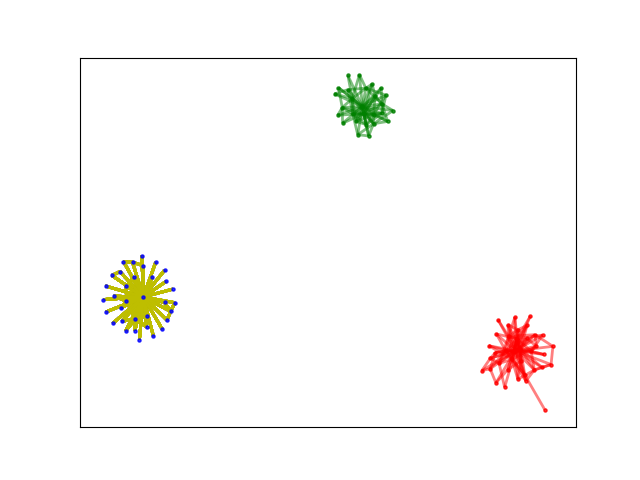
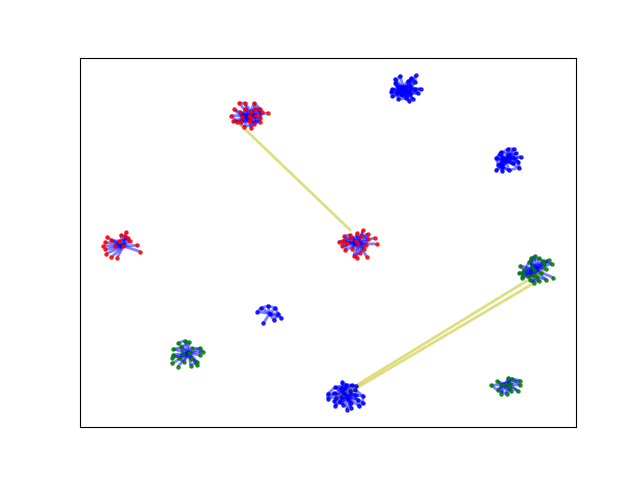
done with the two views on the left, now the last view

diff --git a/main.py b/main.py
@@ -1,6 +1,9 @@
 from mygraph import GraphSolver, MyGraph
 import kivy
 import random
+
+import datetime
+import time
 from kivy.app import App
 from kivy.uix.button import Button
 from kivy.uix.boxlayout import BoxLayout
@@ -83,7 +86,7 @@ class NestedLayoutExample(App):
         self.alpha = 0 # how many edges in between each pair
         self.beta = 0 # how many pairs chosen
         # parameters in the second column
-        self.num_additional_edges = 1
+        self.ratio_additional_edges = 1.0
 
         self.count_TN = 0.0
         self.count_FN = 0.0
@@ -94,8 +97,8 @@ class NestedLayoutExample(App):
         self.recall = 0.0
         self.accuracy = 0.0
 
-        self.one_time = 0.0
-        self.all_time = 0.0
+        self.one_time = "NONE"
+        self.all_time = "NONE"
 
         # main_layout = BoxLayout(padding=10, orientation="horizontal")
         main_layout = GridLayout(cols=3)
@@ -123,21 +126,21 @@ class NestedLayoutExample(App):
         box_C = BoxLayout(orientation='horizontal')
         box_C.add_widget(Label(text='C', halign='left', size_hint=(None,.4), markup=True))
         self.C_input = TextInput(hint_text='5', size_hint=(.5,.4))
-        self.C_input.text = '5'
+        self.C_input.text = '10'
         box_C.add_widget(self.C_input)
         first_ver_layout.add_widget(box_C)
         # alpha
         box_alpha = BoxLayout(orientation='horizontal', spacing=20)
         box_alpha.add_widget(Label(text='alpha', halign='left', size_hint=(None,.4), markup=True))
-        self.alpha_input = TextInput(hint_text='1.5', size_hint=(.5,.4))
-        self.alpha_input.text = '1.5'
+        self.alpha_input = TextInput(hint_text='0.1', size_hint=(.5,.4))
+        self.alpha_input.text = '0.1'
         box_alpha.add_widget(self.alpha_input)
         first_ver_layout.add_widget(box_alpha)
         # beta
         box_beta = BoxLayout(orientation='horizontal', spacing=20)
         box_beta.add_widget(Label(text='beta', halign='left', size_hint=(None,.4), markup=True))
-        self.beta_input = TextInput(hint_text='1.0', size_hint=(.5,.4))
-        self.beta_input.text = '1.0'
+        self.beta_input = TextInput(hint_text='2.5', size_hint=(.5,.4))
+        self.beta_input.text = '2.0'
         box_beta.add_widget(self.beta_input)
         first_ver_layout.add_widget(box_beta)
 
@@ -149,40 +152,49 @@ class NestedLayoutExample(App):
 
         # Second Column
         second_ver_layout = BoxLayout(orientation='vertical')
-        second_ver_layout.add_widget(Builder.load_string((img_after)))
+        self.after_img = Builder.load_string((img_after))
+        second_ver_layout.add_widget(self.after_img)
         # first row:
         # number of edges in between: num_edges_between
         box_A = BoxLayout(orientation='horizontal', spacing=20)
-        box_A.add_widget(Label(text='No. Add\'Edges', halign='left', size_hint=(.5,.4), markup=True))
-        self.A_input = TextInput(hint_text='60', size_hint=(.5,.4))
-        self.A_input.text = '100'
+        box_A.add_widget(Label(text='Ratio. Add\'Edges', halign='left', size_hint=(.5,.4), markup=True))
+        self.A_input = TextInput(hint_text='1.4', size_hint=(.5,.4))
+        self.A_input.text = '1.4'
         box_A.add_widget(self.A_input)
         second_ver_layout.add_widget(box_A)
 
         # display the evaluation result
         box_T = BoxLayout(orientation='horizontal', spacing=20)
-        box_T.add_widget(Label(text='TP = ' + str(self.count_TP), halign='left', size_hint=(None,.4), markup=True))
+        self.TP_label = Label(text='TP = ' + str(self.count_TP), halign='left', size_hint=(None,.4), markup=True)
+        box_T.add_widget(self.TP_label)
         # second_ver_layout.add_widget(box_TP)
-        box_T.add_widget(Label(text='TN = ' + str(self.count_TN), halign='left', size_hint=(None,.4), markup=True))
+        self.TN_label = Label(text='TN = ' + str(self.count_TN), halign='left', size_hint=(None,.4), markup=True)
+        box_T.add_widget(self.TN_label)
         second_ver_layout.add_widget(box_T)
 
 
         box_F = BoxLayout(orientation='horizontal', spacing=20)
-        box_F.add_widget(Label(text='FP = ' + str(self.count_FP), halign='left', size_hint=(None,.4), markup=True))
+        self.FP_label = Label(text='FP = ' + str(self.count_FP), halign='left', size_hint=(None,.4), markup=True)
+        box_F.add_widget(self.FP_label)
         # second_ver_layout.add_widget(box_TP)
-        box_F.add_widget(Label(text='FN = ' + str(self.count_FN), halign='left', size_hint=(None,.4), markup=True))
+        self.FN_label = Label(text='FN = ' + str(self.count_FN), halign='left', size_hint=(None,.4), markup=True)
+        box_F.add_widget(self.FN_label)
         second_ver_layout.add_widget(box_F)
 
 
         box_X = BoxLayout(orientation='horizontal', spacing=20)
-        box_X.add_widget(Label(text='precision = ' + str(self.precision), halign='left', size_hint=(None,.4), markup=True))
+        self.precision_label = Label(text='precision = ' + str(self.precision), halign='left', size_hint=(None,.4), markup=True)
+        box_X.add_widget(self.precision_label)
         # second_ver_layout.add_widget(box_TP)
-        box_X.add_widget(Label(text='recall = ' + str(self.recall), halign='left', size_hint=(None,.4), markup=True))
-        box_X.add_widget(Label(text='accuracy = ' + str(self.accuracy), halign='left', size_hint=(None,.4), markup=True))
+        self.recall_label = Label(text='recall = ' + str(self.recall), halign='left', size_hint=(None,.4), markup=True)
+        box_X.add_widget(self.recall_label)
+        self.accuracy_label = Label(text='accuracy = ' + str(self.accuracy), halign='left', size_hint=(None,.4), markup=True)
+        box_X.add_widget(self.accuracy_label)
         second_ver_layout.add_widget(box_X)
 
         box_Y = BoxLayout(orientation='horizontal', spacing=20)
-        box_Y.add_widget(Label(text='time4it = ' + str(self.one_time), halign='left', size_hint=(None,.9), markup=False))
+        self.one_time_label = Label(text='time4it = ' + str(self.one_time), halign='left', size_hint=(None,.9), markup=False)
+        box_Y.add_widget(self.one_time_label)
         # second_ver_layout.add_widget(box_TP)
         # box_X.add_widget(Label(text='recall = ' + str(self.recall), halign='left', size_hint=(None,.4), markup=True))
         # box_X.add_widget(Label(text='accuracy = ' + str(self.accuracy), halign='left', size_hint=(None,.4), markup=True))
@@ -215,7 +227,6 @@ class NestedLayoutExample(App):
         # for i in range(100, 0, -1):
         #     Clock.schedule_once(partial(self.before_img.update, str(i)), 10-i)
 
-
         return main_layout
 
     def go (self, instance):
@@ -224,9 +235,7 @@ class NestedLayoutExample(App):
         self.create_graphs()
         self.solve_graphs()
         self.save_to_png()
-        self.before_img.reload()
-
-
+        self.refresh_UI()
 
 
     def update_parameter(self):
@@ -238,7 +247,7 @@ class NestedLayoutExample(App):
         self.alpha = float(self.alpha_input.text)
         self.beta = float(self.beta_input.text)
         # column 2
-        self.num_additional_edges = int (self.A_input.text)
+        self.ratio_additional_edges = float (self.A_input.text)
         # column 3
         # self.num_graph = int(self.A_input.text)
 
@@ -253,6 +262,8 @@ class NestedLayoutExample(App):
     #     self.app = NestedLayoutExample()
     #
     def create_graphs(self):
+        self.graphs = []
+        self.graph_solvers = []
         self.num_graph = 1
         for i in range (self.num_graph):
             mg = MyGraph(concepts_size = self.C, N = self.N, M = self.M, alpha = self.alpha, beta = self.beta)
@@ -262,9 +273,12 @@ class NestedLayoutExample(App):
             self.graphs.append(mg)
 
     def solve_graphs(self):
+        round_start = time.time()
+        # ====
         for i in range (self.num_graph):
-            # num_additional_edges = 6060
-            s = GraphSolver(self.graphs[i], self.num_additional_edges)
+            # ratio_additional_edges = 6060
+            s = GraphSolver(self.graphs[i], self.ratio_additional_edges)
+            self.graph_solvers.append(s)
             s.solve()
             s.obtain_statistics_and_graph()
             # s.print_info()
@@ -272,13 +286,34 @@ class NestedLayoutExample(App):
             self.count_TP = s.count_TP
             self.count_FN = s.count_FP
             self.count_FN = s.count_FN
+            self.precision = s.precision
+            self.recall = s.recall
+            self.accuracy = s.accuracy
+
+        round_end = time.time()
+        hours, rem = divmod(round_end - round_start, 3600)
+        minutes, seconds = divmod(rem, 60)
+        self.one_time = "Time: {:0>2}:{:0>2}:{:05.2f}".format(int(hours),int(minutes),seconds)
 
     def save_to_png(self):
         print ('save_to_png: before and after')
-        pos = self.graphs[0].save_graph('before.png')
+        colors = ['b', 'g', 'r'] * self.graphs[0].N
+        before_pos = self.graphs[0].save_graph('before.png', colors = colors)
+        self.graph_solvers[0].save_graph('after.png', pos = before_pos, colors = colors)
 
 
+    def refresh_UI(self):
 
+        self.before_img.reload()
+        self.after_img.reload()
+        self.TP_label.text = '*TP = '+str(self.count_TP)
+        self.TN_label.text = '*TN = '+str(self.count_TN)
+        self.FP_label.text = '*FP = '+str(self.count_FP)
+        self.FN_label.text = '*FN = '+str(self.count_FN)
+        self.precision_label.text = '*precision = %.2f'%self.precision
+        self.recall_label.text = '*recall = %.2f'%self.recall
+        self.accuracy_label.text = '*accuracy = %.2f'%self.accuracy
+        self.one_time_label.text = self.one_time
 
 
 if __name__ == "__main__":
@@ -341,8 +376,8 @@ if __name__ == "__main__":
 # g.create_graph()
 # # g.show_graph()
 #
-# num_additional_edges = 60
-# s = GraphSolver(g, num_additional_edges)
+# ratio_additional_edges = 60
+# s = GraphSolver(g, ratio_additional_edges)
 # s.solve()
 # s.obtain_statistics_and_graph()
 # s.print_info()

diff --git a/mygraph.py b/mygraph.py
@@ -89,7 +89,7 @@ class MyGraph():
 
         coll_edges_between = []
 
-        BETA = int(random.betavariate(2, 2) * self.beta * self.concepts_size) +1
+        BETA = int(self.beta * self.concepts_size) +1
         # create random links between the these subgraphs
         print ('BETA (pairs chosen) = ', BETA)
         chosen_pairs = []
@@ -99,7 +99,7 @@ class MyGraph():
                 [a, b] = random.sample(list(range(self.concepts_size)), 2)
             chosen_pairs.append((a,b))
             ALPHA = int (random.betavariate(2, 5) * self.alpha * self.N) + 1
-            print ('ALPHA (additional edges in between) = ', ALPHA)
+            print ('ALPHA (edges in between) = ', ALPHA)
             for i in range (ALPHA):
                 # print ('chose a = ', a, ' and b =', b)
                 # print('this subgraph has len nodes = ', len (self.subgraphs[a].nodes))
@@ -112,15 +112,17 @@ class MyGraph():
         self.edges_between = coll_edges_between
 
 
-    def save_graph(self, file_name):
+    def save_graph(self, file_name, colors):
         # Draw graph
+        tmpG = self.G.remove_edges_from(self.edges_between)
         pos = nx.spring_layout(self.G)
+        self.G.add_edges_from(self.edges_between)
 
         for i in self.subgraphs.keys():
             g = self.subgraphs[i]
             nx.draw_networkx_nodes(self.G, pos,
                                    nodelist= g.nodes,
-                                   node_color=random.choice(['r', 'g', 'b', 'b', 'r']), # TODO: subgraphs_representative
+                                   node_color=colors[i], # TODO: subgraphs_representative
                                    node_size=5,
                                alpha=0.8)
             nx.draw_networkx_edges(self.G, pos,
@@ -133,6 +135,7 @@ class MyGraph():
                                width=2,alpha=0.5,edge_color='y')
 
         plt.savefig(file_name)
+        plt.close()
         return pos
 
 
@@ -153,13 +156,19 @@ class MyGraph():
 
 class GraphSolver():
 
-    def __init__(self, myG, num_additional_edges):
+    def __init__(self, myG, ratio_additional_edges):
         self.G = myG.G
-        self.edges_between = myG.edges_between
+        self.Gsubgraphs = myG.subgraphs
+        self.Gsubgraphs_representative = myG.subgraphs_representative
+
+        self.Gedges_between = myG.edges_between
+
+        self.Hedges_between = []
+
         self.H = nx.Graph()
         self.Hsubgraphs = {}
 
-        self.num_additional_edges = num_additional_edges
+        self.ratio_additional_edges = ratio_additional_edges
         self.test_between_groups = myG.test_between_groups
         self.test_same_groups = myG.test_same_groups
 
@@ -196,7 +205,7 @@ class GraphSolver():
             self.o.add_soft(self.id2encode[l] == self.id2encode[r], w) # each edge within graphs
         # add the edges between groups, with negative weights
         i = 0
-        while i < self.num_additional_edges:
+        while i < int(self.ratio_additional_edges * len(self.Gedges_between)):
             i1 = random.choice(list(self.G.nodes))
             i2 = random.choice(list(self.G.nodes))
             if (i1 != i2):
@@ -215,6 +224,7 @@ class GraphSolver():
             (id1, id2) = e
             decision = self.m.evaluate(self.id2encode[id1] == self.id2encode[id2])
             if decision:
+                # print ('the ids: ',id1, id2)
                 self.H.add_edge(id1, id2)
 
             if self.test_same_groups(id1, id2)== True and decision == True:
@@ -228,14 +238,26 @@ class GraphSolver():
                 self.count_FP +=1
 
 
-        for n in self.G.nodes:
-            group_id = self.m.evaluate(self.id2encode[n])
-            if group_id in self.Hsubgraphs.keys():
-                self.Hsubgraphs[group_id].append(n)
-            else:
-                self.Hsubgraphs[group_id] = [n]
+        for i in self.Gsubgraphs.keys():
+            self.Hsubgraphs[i] = nx.Graph()
+            g = self.Gsubgraphs[i]
+            for e in g.edges:
+                (id1, id2) = e
+                decision = self.m.evaluate(self.id2encode[id1] == self.id2encode[id2])
+                if decision:
+                    self.Hsubgraphs[i].add_edge(id1, id2)
+                #else, add it to a faulty edge set?
+        for e in self.Gedges_between:
+            (id1, id2) = e
+            decision = self.m.evaluate(self.id2encode[id1] == self.id2encode[id2])
+            if decision:
+                self.Hedges_between.append(e)
 
-    def print_info (self):
+        # remove z3 model and solver to free the memory?
+
+        print ('G: THE EDGES BETWEEN: ', len (self.Gedges_between))
+        print ('H: THE EDGES BETWEEN: ', len (self.Hedges_between))
+
 
         print ('total edges', len(self.G.edges))
 
@@ -253,12 +275,55 @@ class GraphSolver():
 
         self.accuracy = (self.count_TN + self.count_TP) / len(self.G.edges)
 
+    def save_graph(self, file_name, pos, colors):
+        # print ('pos = ', pos)
+        pps = nx.spring_layout(self.H)
+        print ('saving it accoring to the position')
+        for i in self.Hsubgraphs.keys():
+            g = self.Hsubgraphs[i]
+            nx.draw_networkx_nodes(self.H, pos,
+                                   nodelist= g.nodes,
+                                   node_color=colors[i], # TODO: subgraphs_representative
+                                   node_size=5,
+                               alpha=0.8)
+            nx.draw_networkx_edges(self.H, pos,
+                                   edgelist=g.edges,
+                                   width=2,alpha=0.5,edge_color='b')
+
+
+        nx.draw_networkx_edges(self.H, pos,
+                               edgelist=self.Hedges_between,
+                               width=2,alpha=0.5,edge_color='y')
+
+        plt.savefig(file_name)
+        plt.close()
+        return pos
+
+
+        # for i in self.subgraphs.keys():
+        #     g = self.subgraphs[i]
+        #     nx.draw_networkx_nodes(self.G, pos,
+        #                            nodelist= g.nodes,
+        #                            node_color=colors[i], # TODO: subgraphs_representative
+        #                            node_size=5,
+        #                        alpha=0.8)
+        #     nx.draw_networkx_edges(self.G, pos,
+        #                            edgelist=g.edges,
+        #                            width=2,alpha=0.5,edge_color='b')
+        #
+        #
+        # nx.draw_networkx_edges(self.G, pos,
+        #                        edgelist=self.edges_between,
+        #                        width=2,alpha=0.5,edge_color='y')
+        #
+        # plt.savefig(file_name)
+
 # g = MyGraph(concepts_size = 15, N =100, M = 5, alpha = 0.05, beta = 3)
 # g.create_graph()
 # # g.show_graph()
 #
-# num_additional_edges = 6060
-# s = GraphSolver(g, num_additional_edges)
+# ratio_additional_edges = 6060
+# s = GraphSolver(g, ratio_additional_edges)
 # s.solve()
 # s.obtain_statistics_and_graph()
 # s.print_info()
